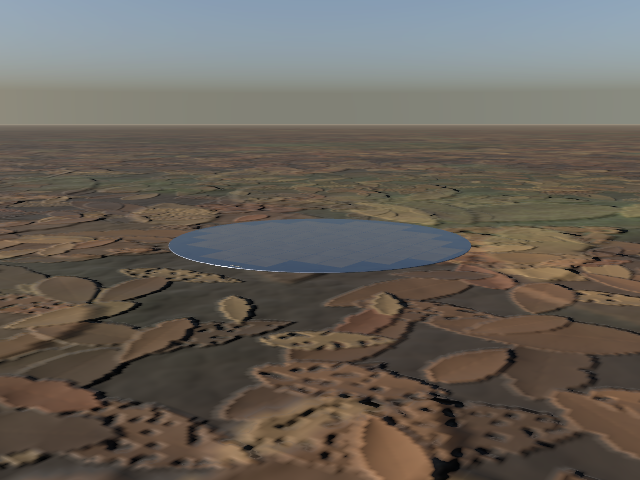
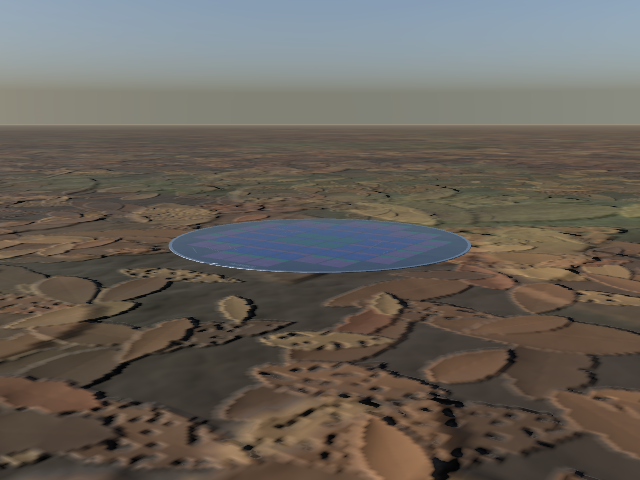
wafer-300mm: die iridescence bands, scribe lanes, exclusion ring, notch, laser ID (0.832, unsigned)

Changed region(s): [[0.3438, 0.4688, 0.6562, 0.5625], [0.7188, 0.5, 0.75, 0.5312], [0.25, 0.5, 0.2812, 0.5312]]

diff --git a/Sources/RealLibrary/Props/Fab/Wafer300mm.swift b/Sources/RealLibrary/Props/Fab/Wafer300mm.swift
@@ -30,10 +30,10 @@ public struct Wafer300mm: RealAsset {
         default: mat = "silicon.thinfilm"
         }
         let r = diameter / 2
-        // Outline with a V notch (1 mm deep) at -Y of the XY plane.
+        // Outline with a V notch (3 mm deep, enlarged for visibility) at +Z after the flat rotation.
         var pts: [V2] = []
         let n = 96
-        let notchA: Float = 0.012
+        let notchA: Float = 0.04
         for i in 0..<n {
             let a = Float(i) / Float(n) * 2 * .pi
             let d = a - 1.5 * .pi
@@ -41,30 +41,78 @@ public struct Wafer300mm: RealAsset {
             pts.append(V2(cos(a) * r, sin(a) * r))
         }
         let ia = pts.firstIndex { $0.y < -r * 0.99 } ?? 0
-        pts.insert(V2(0, -r + 0.001), at: min(ia + 1, pts.count))
-        let disc = Prim.extrude(Shape2D.deduped(pts), depth: thickness, bevel: 0.00025, bevelSegments: 1, material: mat)
+        pts.insert(V2(0, -r + 0.006), at: min(ia + 1, pts.count))
+        let disc = Prim.extrude(Shape2D.deduped(pts), depth: thickness, bevel: 0.0004, bevelSegments: 1, material: "silicon.thinfilm")
         let flat = simd_quatf(degrees: -90, axis: V3(1, 0, 0))
         m.add(disc, Xform(translation: V3(0, thickness / 2, 0), rotation: flat))
-        // Laser-marked ID beside the notch.
-        m.add(Prim.roundedBox(V3(0.012, 0.00004, 0.0016), radius: 0.00002, bevelSegments: 1, material: "metal.steel"),
-              Xform(translation: V3(0.016, thickness + 0.00002, r - 0.007)))
+        let top = thickness + 0.00001
+        // Bare-silicon exclusion ring (3 mm) with bevel highlight, notch gap left open.
+        var ring = Surface(material: "silicon.bare")
+        let r0 = r - 0.0032, r1 = r - 0.0002
+        let seg = 120
+        for k in 0..<seg {
+            let a0 = Float(k) / Float(seg) * 2 * .pi, a1 = Float(k + 1) / Float(seg) * 2 * .pi
+            let am = (a0 + a1) / 2
+            if abs(atan2(sin(am - 0.5 * .pi), cos(am - 0.5 * .pi))) < 0.07 { continue }
+            let up = V3(0, 1, 0)
+            let p0 = ring.add(V3(cos(a0) * r0, top, sin(a0) * r0), up, V2(a0, 0)), p1 = ring.add(V3(cos(a0) * r1, top, sin(a0) * r1), up, V2(a0, 1))
+            let p2 = ring.add(V3(cos(a1) * r1, top, sin(a1) * r1), up, V2(a1, 1)), p3 = ring.add(V3(cos(a1) * r0, top, sin(a1) * r0), up, V2(a1, 0))
+            ring.quad(p0, p3, p2, p1)
+        }
+        ring.computeTangents()
+        m.add(ring, Xform(translation: .zero))
+        // Laser ID: two rows of dot-matrix marks beside the notch, plus faint handling marks, as flat quads.
+        var rr = rng
+        var marks = Surface(material: "silicon.mark")
+        func mq(_ cx: Float, _ cz: Float, _ hx: Float, _ hz: Float, _ ang: Float) {
+            let c = cos(ang), s = sin(ang), y = top + 0.00001, nn = V3(0, 1, 0)
+            func pt(_ u: Float, _ v: Float) -> V3 { V3(cx + u * c - v * s, y, cz + u * s + v * c) }
+            let q = [pt(-hx, hz), pt(hx, hz), pt(hx, -hz), pt(-hx, -hz)].map { marks.add($0, nn, V2($0.x, $0.z)) }
+            marks.quad(q[0], q[1], q[2], q[3])
+        }
+        for row in 0..<2 {
+            for c in 0..<12 {
+                if rr.float() < 0.2 { continue }
+                mq(0.006 + Float(c) * 0.0022, r - 0.0105 - Float(row) * 0.0028, 0.0009, 0.001, 0)
+            }
+        }
+        for _ in 0..<7 {
+            let a = rr.float() * 2 * .pi, rad = 0.04 + rr.float() * 0.1
+            mq(cos(a) * rad, sin(a) * rad, 0.008 + rr.float() * 0.02, 0.00025, a + .pi / 2 + (rr.float() - 0.5) * 0.4)
+        }
+        marks.computeTangents()
+        m.add(marks, Xform(translation: .zero))
         if state == "patterned" {
-            var dies = Surface(material: "silicon.thinfilm-metal")
+            // Reticle fields of 2 x 2 dies; each die takes one of four interference tints.
+            var groups = (0..<4).map { Surface(material: "silicon.die-" + ["a", "b", "c", "d"][$0]) }
+            var scribe = Surface(material: "silicon.thinfilm")
+            let gap: Float = 0.0006
             let cols = Int((diameter - 0.012) / dieSize.x), rows = Int((diameter - 0.012) / dieSize.y)
             for i in 0..<cols {
                 for j in 0..<rows {
                     let x = (Float(i) - Float(cols - 1) / 2) * dieSize.x
                     let z = (Float(j) - Float(rows - 1) / 2) * dieSize.y
-                    if simd_length(V2(abs(x) + dieSize.x / 2, abs(z) + dieSize.y / 2)) > r - 0.003 { continue }
-                    let hx = (dieSize.x - 0.0008) / 2, hz = (dieSize.y - 0.0008) / 2, y = thickness + 0.00002
-                    let n = V3(0, 1, 0)
-                    let i0 = dies.add(V3(x - hx, y, z + hz), n, V2(x - hx, z + hz)), i1 = dies.add(V3(x + hx, y, z + hz), n, V2(x + hx, z + hz))
-                    let i2 = dies.add(V3(x + hx, y, z - hz), n, V2(x + hx, z - hz)), i3 = dies.add(V3(x - hx, y, z - hz), n, V2(x - hx, z - hz))
-                    dies.quad(i0, i1, i2, i3)
+                    if simd_length(V2(abs(x) + dieSize.x / 2, abs(z) + dieSize.y / 2)) > r - 0.0042 { continue }
+                    let rad = simd_length(V2(x, z)) / r
+                    let g = min(3, Int(rad * 3.2) + ((i / 2 + j / 2) % 2 == 0 ? 0 : 0))
+                    // Wider lane at reticle field borders.
+                    let gl: Float = (i % 2 == 0 ? gap * 2 : gap), gr: Float = (i % 2 == 1 ? gap * 2 : gap)
+                    let gt: Float = (j % 2 == 0 ? gap * 2 : gap), gb: Float = (j % 2 == 1 ? gap * 2 : gap)
+                    let x0 = x - dieSize.x / 2 + gl / 2 + 0.0004, x1 = x + dieSize.x / 2 - gr / 2 - 0.0004
+                    let z0 = z - dieSize.y / 2 + gt / 2 + 0.0004, z1 = z + dieSize.y / 2 - gb / 2 - 0.0004
+                    let y = thickness + 0.00002
+                    let nrm = V3(0, 1, 0)
+                    // Die body split into array core and a darker-tinted periphery strip.
+                    let split = z0 + (z1 - z0) * 0.22
+                    for (za, zb, gi) in [(z0, split, (g + 1) % 4), (split, z1, g)] {
+                        let i0 = groups[gi].add(V3(x0, y, zb), nrm, V2(x0, zb)), i1 = groups[gi].add(V3(x1, y, zb), nrm, V2(x1, zb))
+                        let i2 = groups[gi].add(V3(x1, y, za), nrm, V2(x1, za)), i3 = groups[gi].add(V3(x0, y, za), nrm, V2(x0, za))
+                        groups[gi].quad(i0, i1, i2, i3)
+                    }
+                    _ = scribe
                 }
             }
-            dies.computeTangents()
-            m.add(dies, Xform(translation: .zero))
+            for k in 0..<4 { groups[k].computeTangents(); m.add(groups[k], Xform(translation: .zero)) }
         }
         _ = rng.float()
         return LODModel(m)

diff --git a/Sources/RealMaterials/Library/TerawattFab.swift b/Sources/RealMaterials/Library/TerawattFab.swift
@@ -33,5 +33,38 @@ public extension MaterialLibrary {
             $0.knobs = V4(0.2, 0.01, 8, 0.1); $0.seed = 3104; $0.tileSize = 0.3; $0.normalStrength = 0.05
             $0.hasMetallicMap = true; $0.metallic = 1; $0.roughness = 0.1
         },
+        // Per-die interference variants, scribe lane, exclusion rim and handling marks.
+        MaterialSpec(key: "silicon.die-a", program: .polishedMetal).with {
+            $0.colorA = linear(0x4FB0A8); $0.colorB = linear(0x9A60C8); $0.colorC = linear(0xE0B848)
+            $0.knobs = V4(0.35, 0.02, 18, 0.08); $0.seed = 3111; $0.tileSize = 0.026; $0.normalStrength = 0.04
+            $0.hasMetallicMap = true; $0.metallic = 0.55; $0.roughness = 0.22
+        },
+        MaterialSpec(key: "silicon.die-b", program: .polishedMetal).with {
+            $0.colorA = linear(0x5C90E0); $0.colorB = linear(0xC860A8); $0.colorC = linear(0x58C8B8)
+            $0.knobs = V4(0.35, 0.02, 20, 0.08); $0.seed = 3112; $0.tileSize = 0.026; $0.normalStrength = 0.04
+            $0.hasMetallicMap = true; $0.metallic = 0.55; $0.roughness = 0.22
+        },
+        MaterialSpec(key: "silicon.die-c", program: .polishedMetal).with {
+            $0.colorA = linear(0xC890C0); $0.colorB = linear(0x58A0D8); $0.colorC = linear(0xE0A860)
+            $0.knobs = V4(0.35, 0.02, 16, 0.08); $0.seed = 3113; $0.tileSize = 0.026; $0.normalStrength = 0.04
+            $0.hasMetallicMap = true; $0.metallic = 0.55; $0.roughness = 0.22
+        },
+        MaterialSpec(key: "silicon.die-d", program: .polishedMetal).with {
+            $0.colorA = linear(0x58C8A0); $0.colorB = linear(0xA890D8); $0.colorC = linear(0xE0A070)
+            $0.knobs = V4(0.35, 0.02, 22, 0.08); $0.seed = 3114; $0.tileSize = 0.026; $0.normalStrength = 0.04
+            $0.hasMetallicMap = true; $0.metallic = 0.55; $0.roughness = 0.22
+        },
+        // Bare silicon: bright grey mirror for the edge exclusion ring and bevel.
+        MaterialSpec(key: "silicon.bare", program: .polishedMetal).with {
+            $0.colorA = linear(0xE8ECF2); $0.colorB = linear(0xC0C6D0); $0.colorC = linear(0xE0E4EA)
+            $0.knobs = V4(0.1, 0.01, 6, 0.04); $0.seed = 3121; $0.tileSize = 0.3; $0.normalStrength = 0.03
+            $0.hasMetallicMap = true; $0.metallic = 0.5; $0.roughness = 0.2
+        },
+        // Faint handling marks and laser dots: slightly rougher, lighter.
+        MaterialSpec(key: "silicon.mark", program: .polishedMetal).with {
+            $0.colorA = linear(0xD8DCE4); $0.colorB = linear(0xB8BEC8); $0.colorC = linear(0xF0F2F6)
+            $0.knobs = V4(0.1, 0.01, 6, 0.04); $0.seed = 3122; $0.tileSize = 0.05; $0.normalStrength = 0.1
+            $0.hasMetallicMap = true; $0.metallic = 1; $0.roughness = 0.35
+        },
     ]
 }
